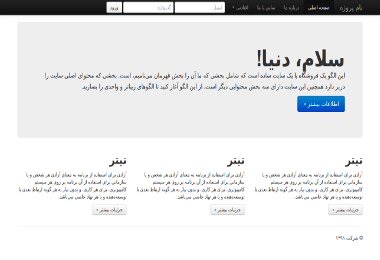
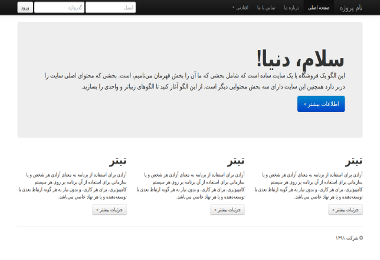
adds pull-left for example hero, bug #4

Changed region(s): [[0.0289, 0.0, 0.6079, 0.0615]]

diff --git a/docs/examples/hero.html b/docs/examples/hero.html
@@ -59,7 +59,7 @@
                 </ul>
               </li>
             </ul>
-            <form class="navbar-form pull-right">
+            <form class="navbar-form pull-left">
               <input class="span2" type="text" placeholder="ایمیل">
               <input class="span2" type="password" placeholder="گذرواژه">
               <button type="submit" class="btn">ورود</button>
